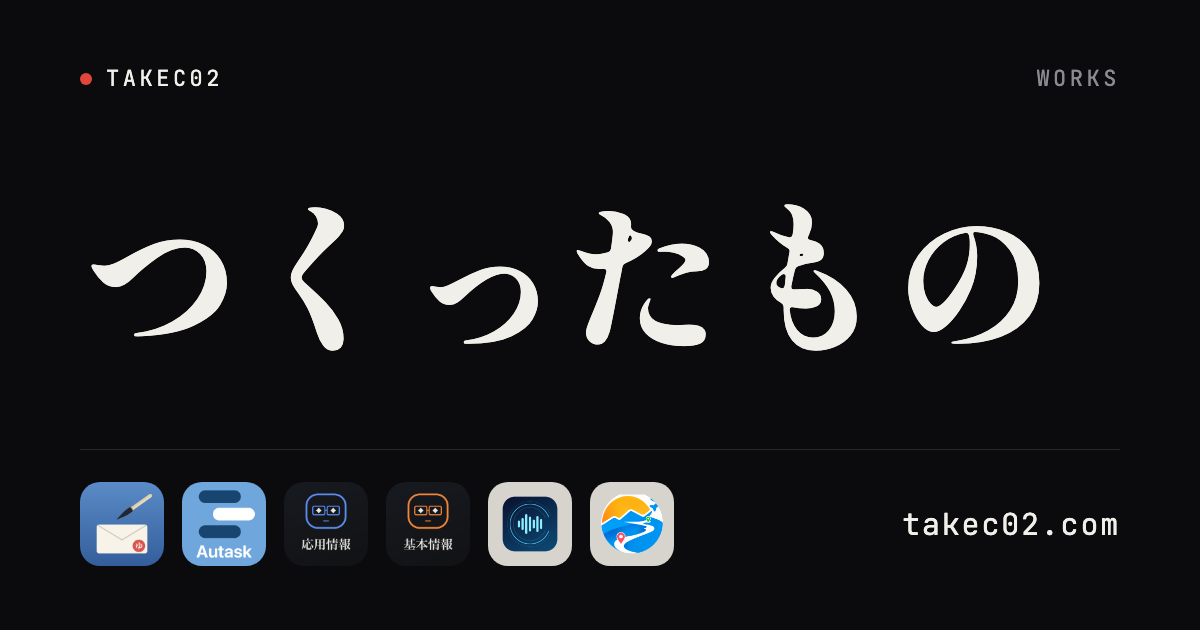
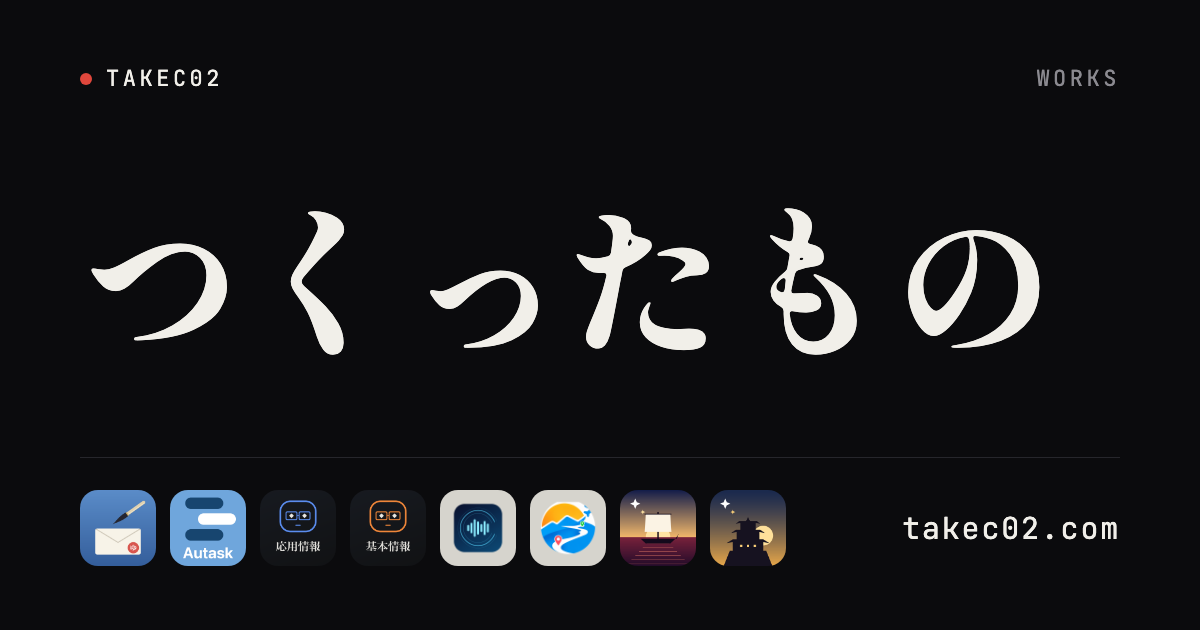
オデュッセイアAI・豊臣秀長AIを準備中で追加

diff --git a/index.html b/index.html
@@ -122,6 +122,28 @@
       </div>
     </article>
 
+    <article class="card" data-status="soon" style="--g:linear-gradient(170deg,#1b2650 0%,#6a4a5a 55%,#e3a45a 100%);--num:rgba(255,255,255,.75)">
+      <div class="card-top">
+        <img class="icon" src="icons/odyssey.png" alt="" loading="lazy">
+      </div>
+      <div class="card-body">
+        <h2>オデュッセイアAI</h2>
+        <p>オデュッセイアとギリシャ神話を、iPhoneの中のAIに聞ける。</p>
+        <p class="meta">iPhone・無料</p>
+      </div>
+    </article>
+
+    <article class="card" data-status="soon" style="--g:linear-gradient(170deg,#1c2a52 0%,#5a4f55 50%,#e0a24c 100%);--num:rgba(255,255,255,.75)">
+      <div class="card-top">
+        <img class="icon" src="icons/hidenaga.png" alt="" loading="lazy">
+      </div>
+      <div class="card-body">
+        <h2>豊臣秀長AI</h2>
+        <p>秀吉の弟・豊臣秀長の生涯を、iPhoneの中のAIに聞ける。</p>
+        <p class="meta">iPhone・無料</p>
+      </div>
+    </article>
+
   </section>
 
   <footer class="footer">
